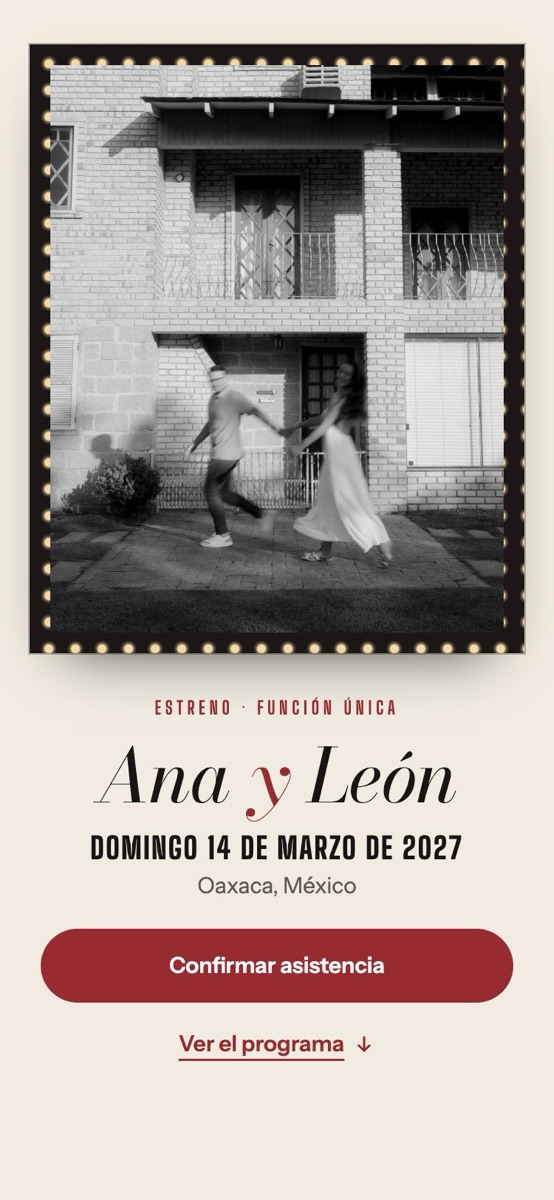
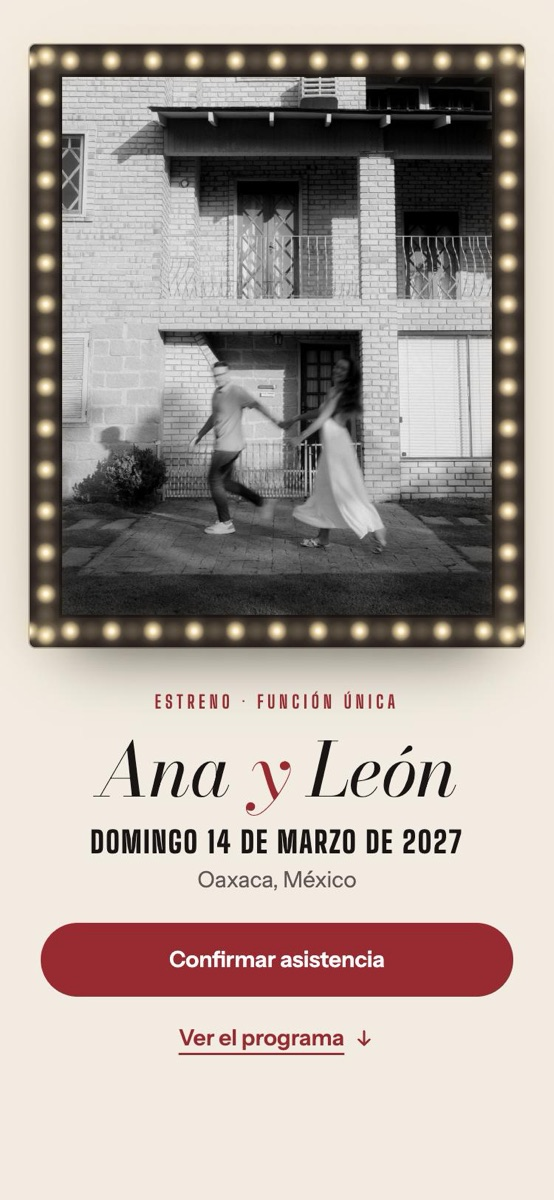
Estreno: bombillas de marquesina que se encienden y corren, historia sin la familia, hotel fijo y botones de confirmación más chicos
- Las bombillas van en el marco (portada, cartelera y letrero de la sala) y la foto ya no las tapa; se encienden al entrar en pantalla y corren en cadena, con pausa si la pestaña no está visible y quietas con movimiento reducido
- La historia ya no lleva el nombre de la familia invitada
- La tarjeta del hotel ya no queda fija al bajar en escritorio
- Opciones de cada persona como píldoras compactas y botón de enviar a su ancho

Changed region(s): [[0.0307, 0.0308, 0.9513, 0.8942]]

diff --git a/demo/estreno/estreno.css b/demo/estreno/estreno.css
@@ -41,7 +41,17 @@ a:focus-visible,button:focus-visible,summary:focus-visible,input:focus-visible{o
 .velvet{color:var(--card)}
 
 /* Bombillas: puntos de luz sobre un marco oscuro */
-.marquee,.board,.sign{position:relative;background:#1E1616;background-image:radial-gradient(circle,var(--bulb) 0 2.6px,#f6d9a066 3.6px,transparent 5.5px);background-size:18px 18px;background-position:4px 4px;box-shadow:0 0 0 1px #00000040,0 20px 40px -24px #000c,0 0 28px -8px #f6d9a055}
+.marquee,.board,.sign{--b:22px;--g:28px;position:relative;isolation:isolate;padding:var(--b);background:#1E1616;border-radius:4px;box-shadow:0 0 0 1px #00000040,0 24px 44px -26px #000c,0 0 60px -14px #f6d9a066}
+.marquee::before,.marquee::after,.board::before,.board::after,.sign::before,.sign::after{content:'';position:absolute;inset:0;z-index:2;pointer-events:none;border-radius:inherit;background-image:radial-gradient(circle,#fffaf0 0 1.2px,var(--bulb) 2.4px,#f6d9a0aa 3.6px,#f6d9a000 7px),radial-gradient(circle,#fffaf0 0 1.2px,var(--bulb) 2.4px,#f6d9a0aa 3.6px,#f6d9a000 7px),radial-gradient(circle,#fffaf0 0 1.2px,var(--bulb) 2.4px,#f6d9a0aa 3.6px,#f6d9a000 7px),radial-gradient(circle,#fffaf0 0 1.2px,var(--bulb) 2.4px,#f6d9a0aa 3.6px,#f6d9a000 7px);background-repeat:repeat-x,repeat-x,repeat-y,repeat-y;background-size:var(--g) var(--b),var(--g) var(--b),var(--b) var(--g),var(--b) var(--g);background-position:center top,center bottom,left center,right center;filter:drop-shadow(0 0 3px var(--bulb)) drop-shadow(0 0 8px #f6d9a088)}
+.marquee::after,.board::after,.sign::after{background-position:calc(50% + var(--g) / 2) top,calc(50% + var(--g) / 2) bottom,left calc(50% + var(--g) / 2),right calc(50% + var(--g) / 2)}
+/* Bombillas de marquesina: se encienden al llegar y luego corren en cadena (dos juegos que se alternan) */
+.marquee::before,.marquee::after,.board::before,.board::after,.sign::before,.sign::after{opacity:.18;transition:opacity .5s}
+.lit::before,.lit::after{opacity:1;animation:es-chase 1.2s steps(1,end) infinite}
+.lit::after{animation-delay:-.6s}
+@keyframes es-chase{0%{opacity:1}50%{opacity:.22}}
+html.motion-paused .lit::before,html.motion-paused .lit::after{animation-play-state:paused}
+.hero-ph .ph{position:relative;z-index:1;box-shadow:0 0 0 2px #00000080}
+
 
 /* ======================= APERTURA ======================= */
 .opening{position:fixed;inset:0;z-index:60;overflow:hidden;display:flex;flex-direction:column;align-items:center;justify-content:center;gap:26px;padding:40px 20px 110px;background:radial-gradient(ellipse at 50% 35%,#3a2a2a,#140f0f 70%);color:var(--card);transition:opacity .6s ease,visibility 0s .6s}
@@ -86,7 +96,7 @@ main{display:block}
 
 /* Portada: marquesina encendida alrededor de la foto */
 .hero{padding:30px 20px 64px;display:flex;flex-direction:column;align-items:center;gap:28px;text-align:center}
-.hero-ph{width:min(100%,380px);padding:14px}
+.hero-ph{width:min(100%,380px)}
 .hero-ph .ph{aspect-ratio:4/5;overflow:hidden;background:#222}
 .hero-ph img{width:100%;height:100%;object-fit:cover;object-position:50% 60%}
 .hero-txt{display:flex;flex-direction:column;align-items:center;gap:12px;max-width:520px}
@@ -105,7 +115,7 @@ main{display:block}
 .story-ph{position:relative;z-index:2;width:52%;max-width:230px;aspect-ratio:3/4.2;padding:8px 8px 26px;background:#fff;box-shadow:0 22px 34px -20px #0009;rotate:-3deg}
 .story-ph img{width:100%;height:100%;object-fit:cover}
 .story-txt{display:flex;flex-direction:column;gap:14px;max-width:560px}
-.story-txt .lead em{font:italic 400 19px var(--serif)}
+.story-txt .lead{font:italic 400 20px/1.5 var(--serif)}
 
 /* Galería: una tira de película que se desliza */
 .gal{padding-inline:0;overflow:hidden}
@@ -122,7 +132,7 @@ main{display:block}
 
 /* Cuenta regresiva: la cartelera sobre terciopelo */
 .cd{text-align:center}
-.board{display:grid;grid-template-columns:repeat(4,minmax(0,1fr));gap:6px;margin-top:26px;padding:16px;max-width:440px}
+.board{display:grid;grid-template-columns:repeat(4,minmax(0,1fr));gap:6px;margin-top:26px;max-width:440px}
 .tile{background:var(--card);color:var(--ink);padding:10px 2px 8px;display:flex;flex-direction:column;align-items:center;box-shadow:inset 0 -2px 0 #0000001f;min-width:0}
 .tile b{font:800 clamp(30px,9vw,44px)/1 var(--disp);font-variant-numeric:tabular-nums}
 .tile span{font:700 11px var(--disp);letter-spacing:.14em;text-transform:uppercase;color:var(--mute)}
@@ -153,7 +163,7 @@ main{display:block}
 .beams{position:absolute;inset:0;max-width:none;pointer-events:none}
 .beams i{position:absolute;top:-10%;width:40%;height:120%;background:linear-gradient(180deg,#f6d9a024,#f6d9a000 80%);clip-path:polygon(40% 0,60% 0,100% 100%,0 100%)}
 .beams i:first-child{left:-6%;rotate:-14deg}.beams i:last-child{right:-6%;rotate:14deg}
-.sign{display:inline-block;margin-top:22px;padding:14px;max-width:min(100%,520px)}
+.sign{display:inline-block;margin-top:22px;max-width:min(100%,520px)}
 .sign p{background:#120d0d;color:var(--card);padding:12px 22px;font:italic 400 clamp(28px,7.5vw,42px)/1.15 var(--serif);overflow-wrap:anywhere}
 .sala-addr{margin-top:18px;color:#DCD0C4;font-size:16px}
 .sala .btn{margin-top:20px}
@@ -209,8 +219,8 @@ main{display:block}
 #people{margin-top:14px}
 .person{margin:0;padding:16px 0;border:0;border-top:1px solid var(--line);display:flex;flex-direction:column;gap:10px;min-width:0}
 .person legend{float:left;width:100%;padding:0;font:italic 400 21px/1.3 var(--serif);overflow-wrap:anywhere}
-.opts{display:grid;grid-template-columns:repeat(2,minmax(0,1fr));gap:8px}
-.opt{position:relative;display:flex;align-items:center;justify-content:center;gap:6px;min-height:48px;padding:0 10px;border:1px solid #1B151540;border-radius:4px;background:#fff;cursor:pointer;font:600 14px var(--sans);text-align:center}
+.opts{display:flex;flex-wrap:wrap;gap:8px}
+.opt{position:relative;display:inline-flex;align-items:center;justify-content:center;gap:6px;min-height:40px;padding:0 16px;border:1px solid #1B151540;border-radius:4px;background:#fff;cursor:pointer;font:600 13px var(--sans);text-align:center}
 .opt input{position:absolute;opacity:0;width:1px;height:1px}
 .opt .ic{display:none}
 .opt:has(input:checked){color:#fff;border-color:transparent}
@@ -223,7 +233,7 @@ main{display:block}
 .fld{display:flex;flex-direction:column;gap:6px;font:600 13px var(--sans)}
 .fld input{min-height:46px;padding:0 12px;border:1px solid #1B151540;border-radius:4px;background:#fff;font:400 16px var(--sans)}
 .rs-err{display:flex;align-items:center;gap:8px;margin-top:14px;color:var(--acc);font:600 15px var(--sans)}
-#rsSave{width:100%;margin-top:20px}
+#rsSave{display:flex;margin:20px auto 0;min-height:46px;font-size:14px}
 .demo-note{margin-top:14px;font-size:14px}
 .thanks{margin-top:18px;font:italic 400 56px/1 var(--serif);color:var(--acc)}
 #rsSum{margin-top:10px;font-size:16px}
@@ -258,7 +268,7 @@ main{display:block}
   .gal-foot{justify-content:flex-end;margin-top:28px}
   .frame{width:200px}
   .strip{padding-inline:max(24px,calc((100% - 1040px)/2))}
-  .board{max-width:560px;padding:18px}
+  .board{max-width:560px}
   .tile b{font-size:52px}
   .week{max-width:420px}
   .prog .evs{max-width:none;display:grid;grid-template-columns:repeat(auto-fit,minmax(220px,1fr));gap:24px}
@@ -266,10 +276,8 @@ main{display:block}
   .ev::before{display:none}.ev::after{left:0;top:-8px}
   .ev-time{text-align:left}.ev-body{padding-left:0;margin-top:6px}
   .travel{display:grid;grid-template-columns:minmax(0,1.2fr) minmax(0,1fr);gap:60px;align-items:start}
-  .stay{position:sticky;top:96px}
   .seat{padding:48px 44px 36px}
   .fields{grid-template-columns:1fr 1fr}
-  #rsSave{width:auto}
 }
 @media(prefers-reduced-motion:reduce){*,*::before,*::after{animation:none!important;transition-duration:.01s!important}[data-rv]{opacity:1;transform:none}[data-rv] .ph-img{filter:grayscale(1) contrast(1.08)!important}.opening{transition:opacity .2s!important}}
 .lz-editor [data-rv]{opacity:1;transform:none}.lz-editor [data-rv] .ph-img{filter:grayscale(1) contrast(1.08)}

diff --git a/demo/estreno/behavior.js b/demo/estreno/behavior.js
@@ -5,7 +5,7 @@
   var PEOPLE = ['Carlos Rodríguez', 'Lucía Pérez', 'Sofía Rodríguez', 'Mateo Rodríguez'];
   LazoPanel.init({ mono: 'A&L', couple: S.n1 + (LANG === 'en' ? ' and ' : ' y ') + S.n2, link: location.pathname, guest: S.guest, people: PEOPLE });
   LazoMusic.init({ src: '/assets/musica/demo.mp3' });
-  var still = matchMedia('(prefers-reduced-motion: reduce)').matches;
+  var still = matchMedia('(prefers-reduced-motion: reduce)').matches, lights = null;
 
   // Lo que aparece (y las fotos que se revelan) al llegar a la pantalla, después de abrir la invitación.
   var io = null, show = function (el) { el.classList.add('in'); };
@@ -50,6 +50,12 @@
   }
   weekFill();
 
+  // Las bombillas se encienden cuando la marquesina entra en pantalla (y corren en cadena mientras se ve).
+  if ('IntersectionObserver' in window && !still) {
+    lights = new IntersectionObserver(function (es) { es.forEach(function (e) { e.target.classList.toggle('lit', e.isIntersecting && opened); }); }, { threshold: .2 });
+    document.querySelectorAll('.marquee,.board,.sign').forEach(function (el) { lights.observe(el); });
+  } else document.querySelectorAll('.marquee,.board,.sign').forEach(function (el) { el.classList.add('lit'); });
+
   // La tira de película avanza de fotograma en fotograma con las flechas.
   var strip = $('strip');
   document.querySelectorAll('[data-strip]').forEach(function (b) {
@@ -63,6 +69,7 @@
     clear(); opened = true; op.classList.add('open', 'gone'); op.inert = true; op.setAttribute('aria-hidden', 'true');
     $('invite').inert = false; document.body.classList.remove('locked'); watch(); $('demoBar').hidden = false; window.scrollTo(0, 0);
     document.querySelector('.hero .names').focus({ preventScroll: true });
+    if (lights) document.querySelectorAll('.marquee,.board,.sign').forEach(function (el) { lights.unobserve(el); lights.observe(el); });
   }
   function part() { if (op.classList.contains('open')) return; clear(); LazoMusic.play(); op.classList.add('open'); timers.push(setTimeout(enter, still ? 0 : 1050)); }
   $('sleeve').addEventListener('click', part); $('enter').addEventListener('click', part);

diff --git a/demo/estreno/layout.js b/demo/estreno/layout.js
@@ -101,7 +101,7 @@
     '<section class="sec story" id="historia" data-lz-anchor="historia">' +
       '<div class="story-art" aria-hidden="true"><span class="initials" data-lz-mono><span>A</span><span>L</span></span><div class="torn"></div><div class="story-ph bw" data-rv><img class="ph-img" src="/assets/fotos/escalera.jpg" data-lz-src="photo:1" alt="" loading="lazy"></div></div>' +
       '<div class="story-txt"><p class="k">' + S.storyK + '</p><h2 data-lz="storyTitle">' + S.storyTitle + '</h2>' +
-        '<p class="lead"><em>' + S.forG + ' ' + S.guest + ':</em> <span data-lz="msg">' + S.msg + '</span></p><p data-lz="story">' + S.storyTxt + '</p></div>' +
+        '<p class="lead" data-lz="msg">' + S.msg + '</p><p data-lz="story">' + S.storyTxt + '</p></div>' +
     '</section>' +
 
     '<section class="sec gal" id="galeria">' +
